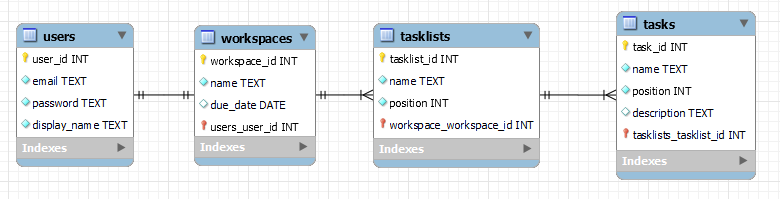
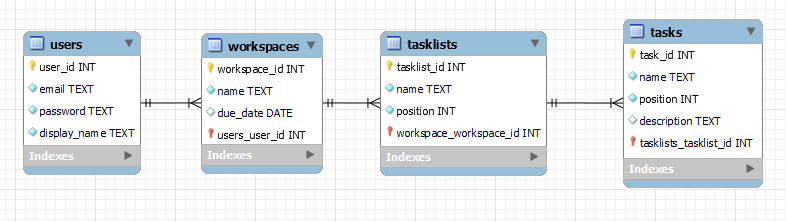
Updated ER Diagram + README

Changed region(s): [[0.0, 0.0302, 1.0, 0.9347], [0.4615, 0.5729, 0.7077, 0.8442], [0.9538, 0.4824, 1.0, 0.5126]]

diff --git a/README.md b/README.md
@@ -20,8 +20,10 @@ and a position. Each task list consists of different tasks. A task has a name, a
 #### Users
 - POST /users <br> Create a new user.
 - GET /users/{id} <br> Get a specific user by his id.
+- PUT /user/{id} <br> Update user's display name by his id.
 #### Workspaces
 - POST /users/{id}/workspaces <br> Create a new workspace for the user of this id.
+- GET /users/{id}/workspaces <br> Get a user's workspaces by his id.
 - GET /workspaces/{id} <br> Get a workspace by its id.
 - PUT /workspaces/{id} <br> Update a workspace by its id.
 - DELETE /workspaces/{id} <br> Delete a workspace by his id.
@@ -33,7 +35,9 @@ and a position. Each task list consists of different tasks. A task has a name, a
 #### Tasks
 - POST /tasklists/{id}/tasks <br> Create a new task for the tasklist of this id.
 - GET /tasklists/{id}/tasks <br> Get all tasks of a tasklist by its id.
+- GET /tasks <br> Get all tasks.
 - PUT /tasks/{id} <br> Update a task by its id.
+- PUT /tasks/{id}/move/{tasklistId} <br> Move task of id to tasklist of tasklistId.
 - DELETE /tasks/{id} <br> Delete a task by its id.
 <br><br>
 ![endpoints-img](assets/Endpoints.PNG)
